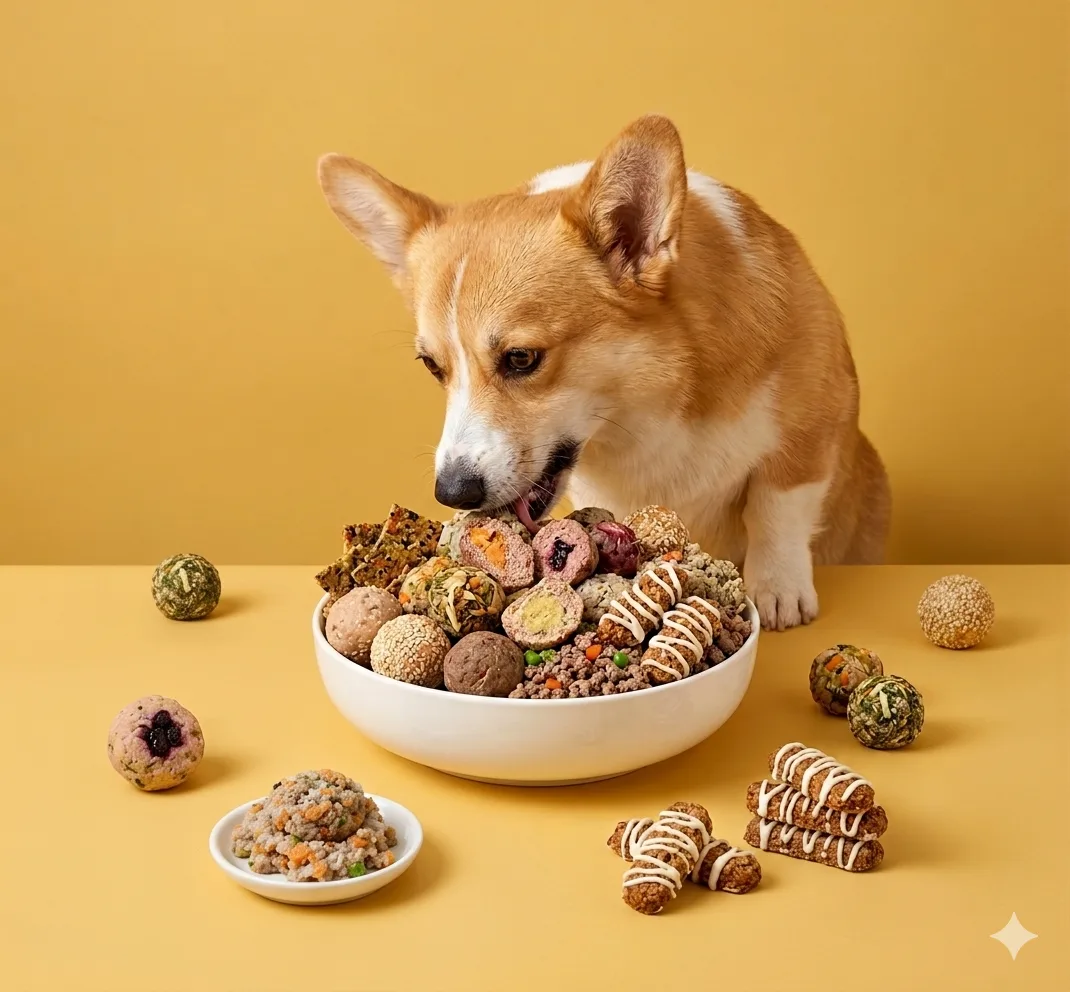
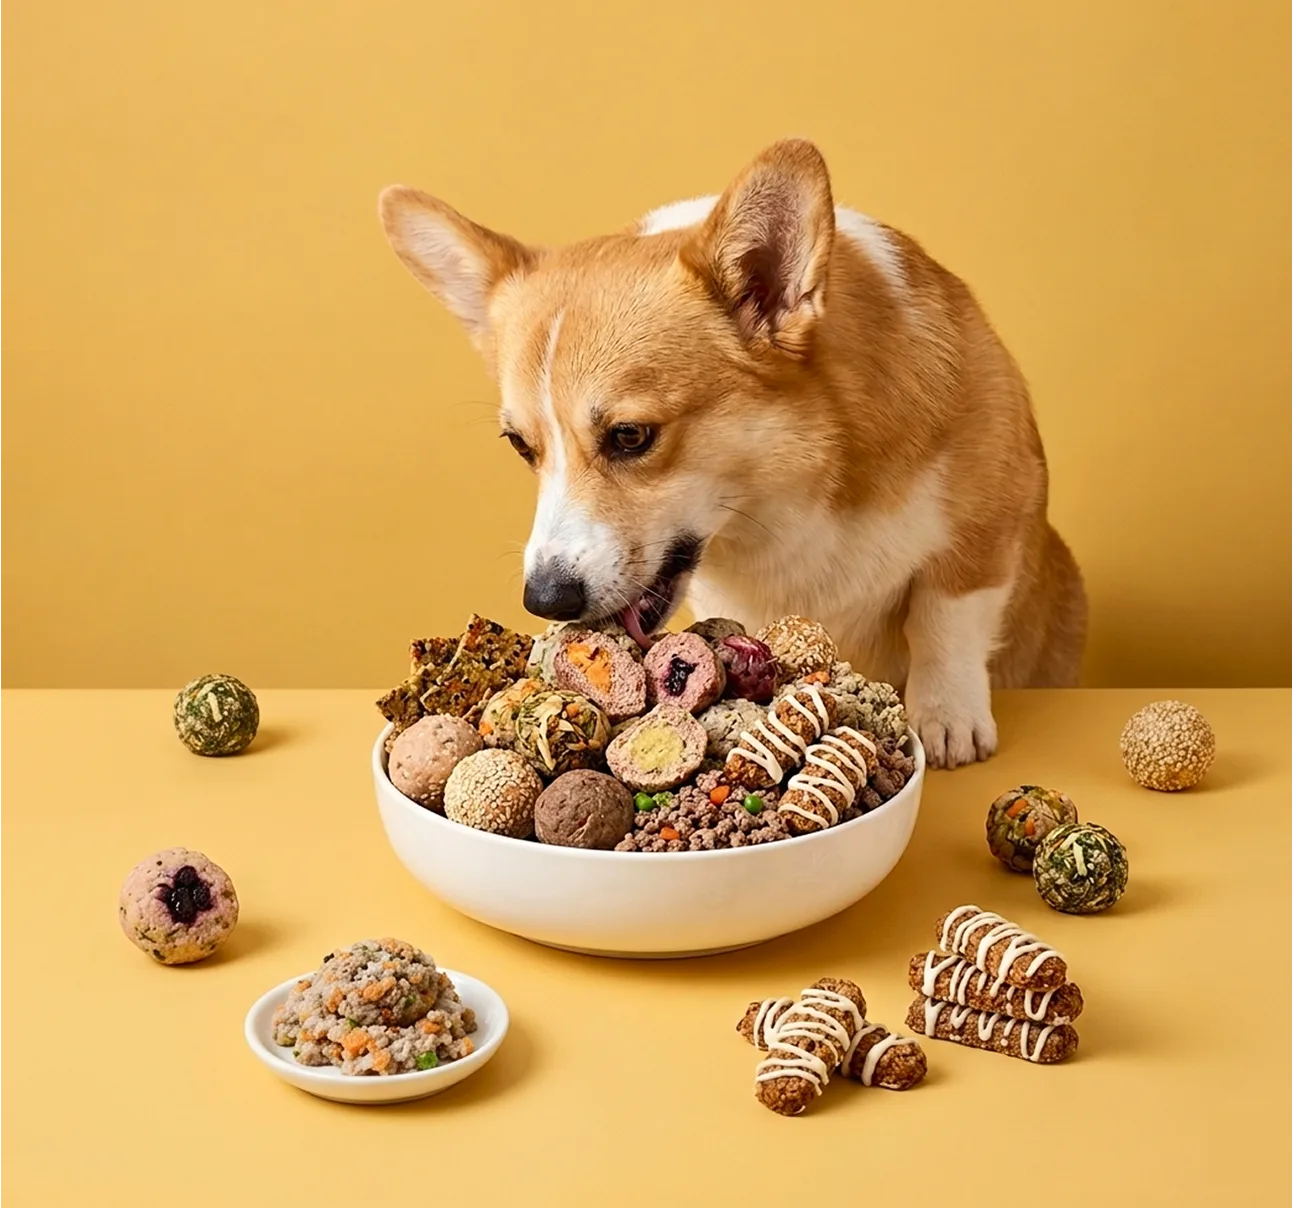
fix: /purchase 헤더 투명화, 홈 패키지 플랜 정렬, 갤러리 이미지 교체
- /purchase를 투명 헤더 라우트에 추가
- 홈 패키지 플랜 요약 순서를 Premium/Standard/Basic으로 변경
- why-gallery 상단 이미지 교체

diff --git a/widgets/home/package-plans/ui/PackagePlansSection.tsx b/widgets/home/package-plans/ui/PackagePlansSection.tsx
@@ -18,7 +18,7 @@ import type { SubscriptionPlanDto } from "@/features/subscription/api";
 import { PlanPicker, PlanTierDots } from "@/widgets/package-plans";
 import homePackagePlansTitle from "../assets/home-package-plans-title-02.webp";
 
-const HOME_SUMMARY_ORDER: PackageTier[] = ["Premium", "Basic", "Standard"];
+const HOME_SUMMARY_ORDER: PackageTier[] = ["Premium", "Standard", "Basic"];
 
 export default function PackagePlansSection() {
   const router = useRouter();

diff --git a/shared/config/headerVariants.ts b/shared/config/headerVariants.ts
@@ -2,6 +2,7 @@ const TRANSPARENT_ROUTES = [
   "/",
   "/about",
   "/subscribe",
+  "/purchase",
   "/support",
   "/inquiry",
   "/mypage/review/write",
